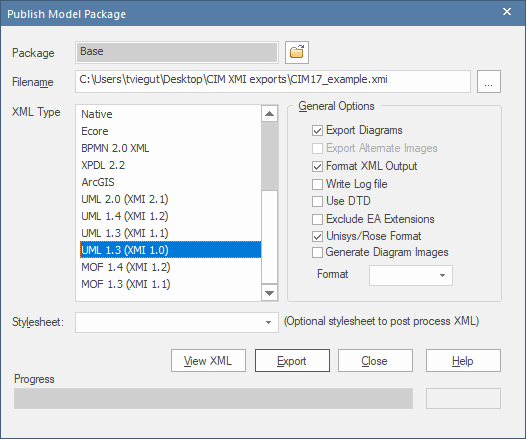
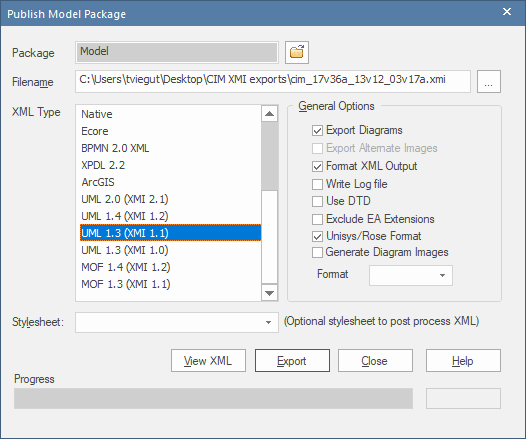
Fixed invalid EA screenshot.

Changed region(s): [[0.1521, 0.5034, 0.5171, 0.5923], [0.5475, 0.1481, 0.8517, 0.2073], [0.1521, 0.0888, 0.2129, 0.1481]]

diff --git a/EA_COMPARE_PROCEDURES.md b/EA_COMPARE_PROCEDURES.md
@@ -30,7 +30,7 @@ The procedure to execute a comparison is done in the following manner
   <img src="media/d0a6a671e1360aaafca37aa4891669fc.png">
 </p>
 
-3.  Export the CIM package as an **XMI 1.1** compliant file of the older model with which to perform the comparison against. The only requirement in the “Publish Model Package” dialog is that the “UML 1.2 (XMI 1.1)” format be selected as the export format. In the screenshot below of the export dialog it should be noted that the “Export Diagrams” and “Unisys/Rose Format” may or may not be selected as part of the **XMI 1.1** export.  They play no role as part of the processing done by the command line utility.
+3.  Export the CIM package as an **XMI 1.1** compliant file of the older model with which to perform the comparison against. The only requirement in the “Publish Model Package” dialog is that the **“UML 1.3 (XMI 1.1)”** XML Type be selected as the export format. In the screenshot below of the export dialog it should be noted that the “Export Diagrams” and “Unisys/Rose Format” may or may not be selected as part of the **XMI 1.1** export.  They play no role as part of the processing done by the command line utility.
 
 <p align="center">
   <img src="media/8c826de7743d558a12383f7d89406bb2.png">

diff --git a/README.md b/README.md
@@ -78,7 +78,7 @@ java -jar cim-compare.jar <baseline-model-xmi-file> <target-model-xmi-file> [<ou
 
 **cim-compare** ships as a fully self-contained executable jar file with no external dependencies.  It has been tested and confirmed to run successfully using Java 1.8  through Java 12.
 
-Given the large file sizes consumed and produced by the utility, **OutOfMemory** exceptions occur if either the default heap size is used or too little heap is allocated on the command line. The following guidelines should be followed:
+Given the large file sizes consumed and produced by the utility, **OutOfMemory** exceptions occur if either the default heap size is used. The following guidelines should be followed:
 
 > For a 32-bit JRE it is recommended to specify a max heap size of at least 1G
     (i.e. 1024m) resources permitting. With a 1G heap size the execution will
